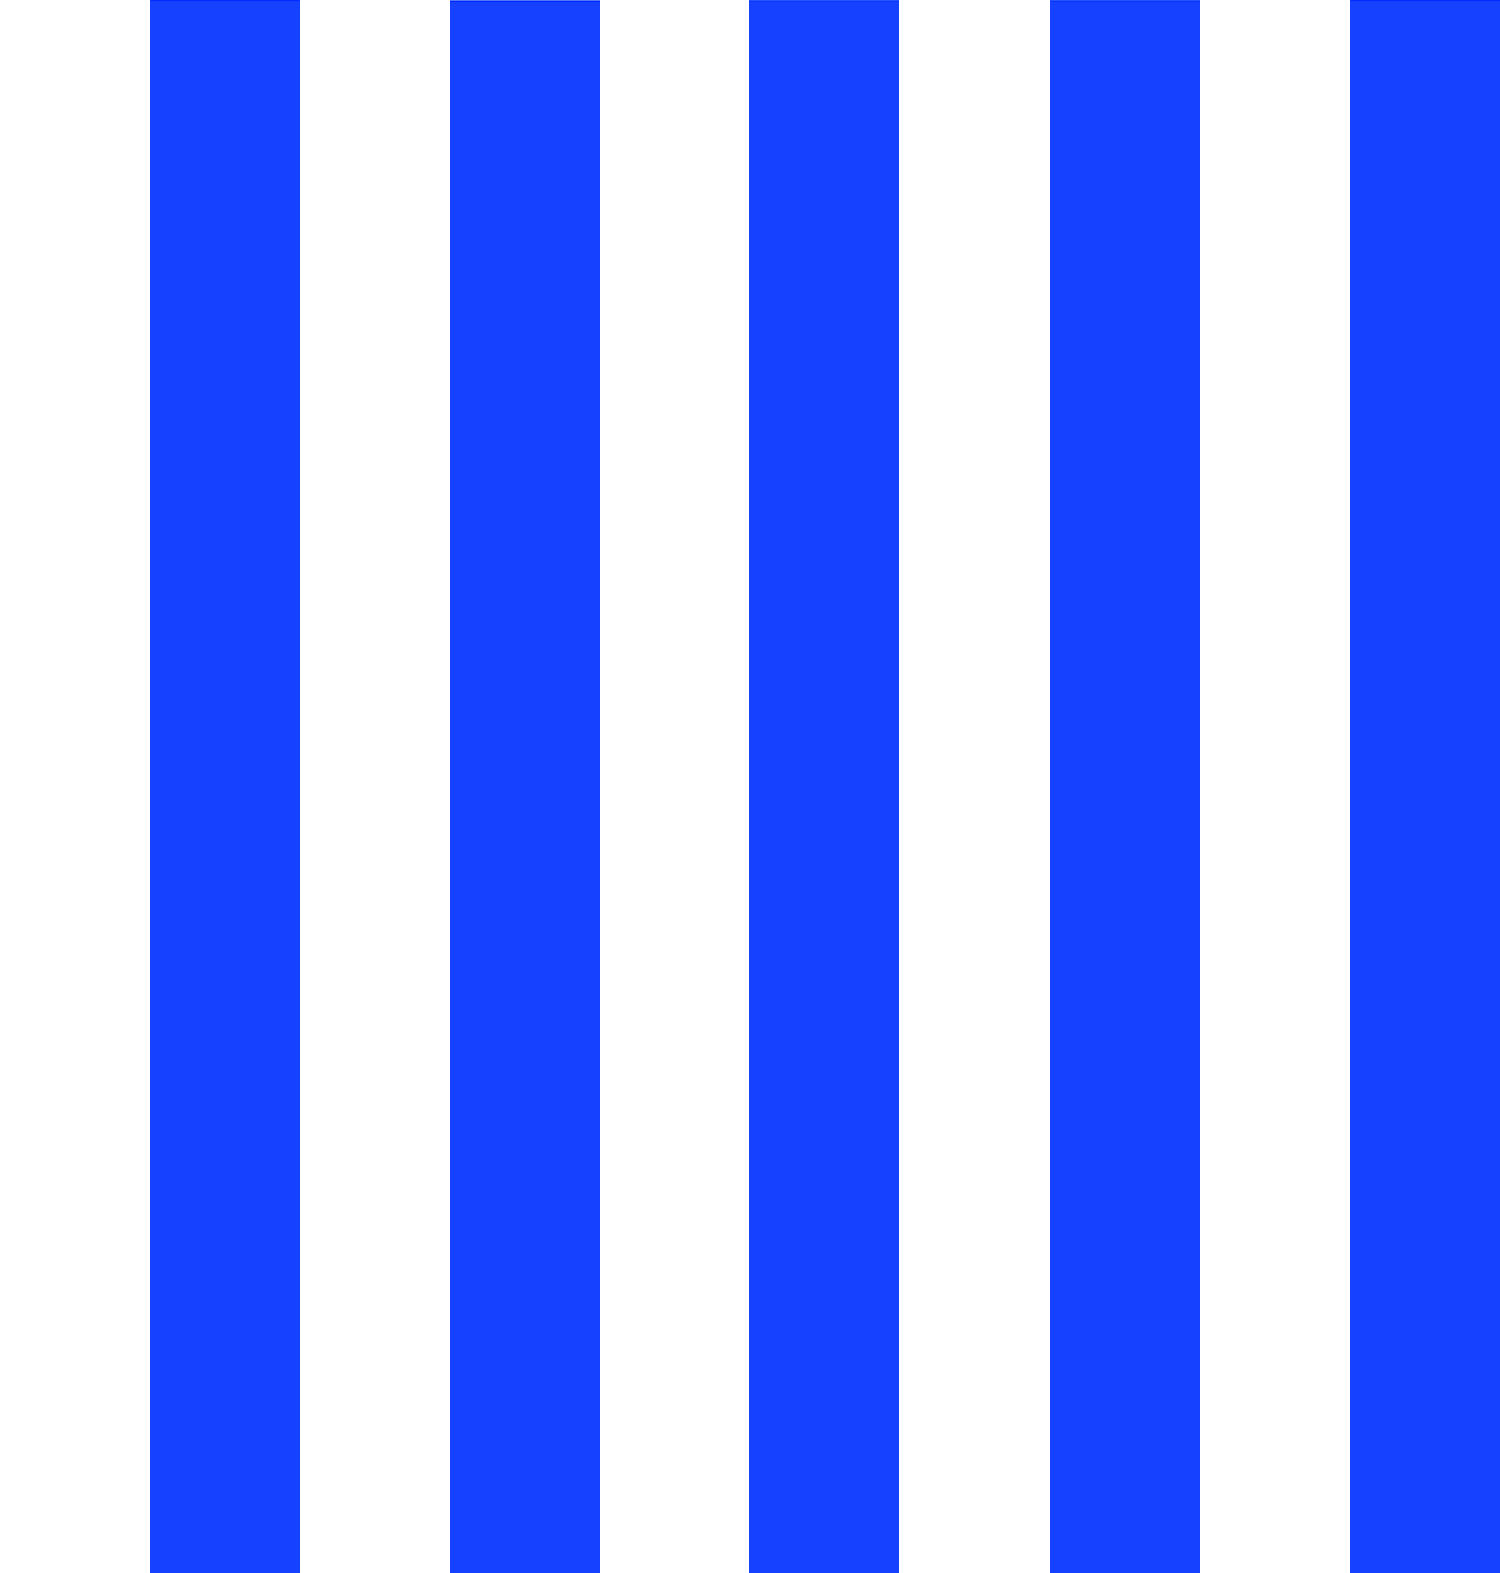
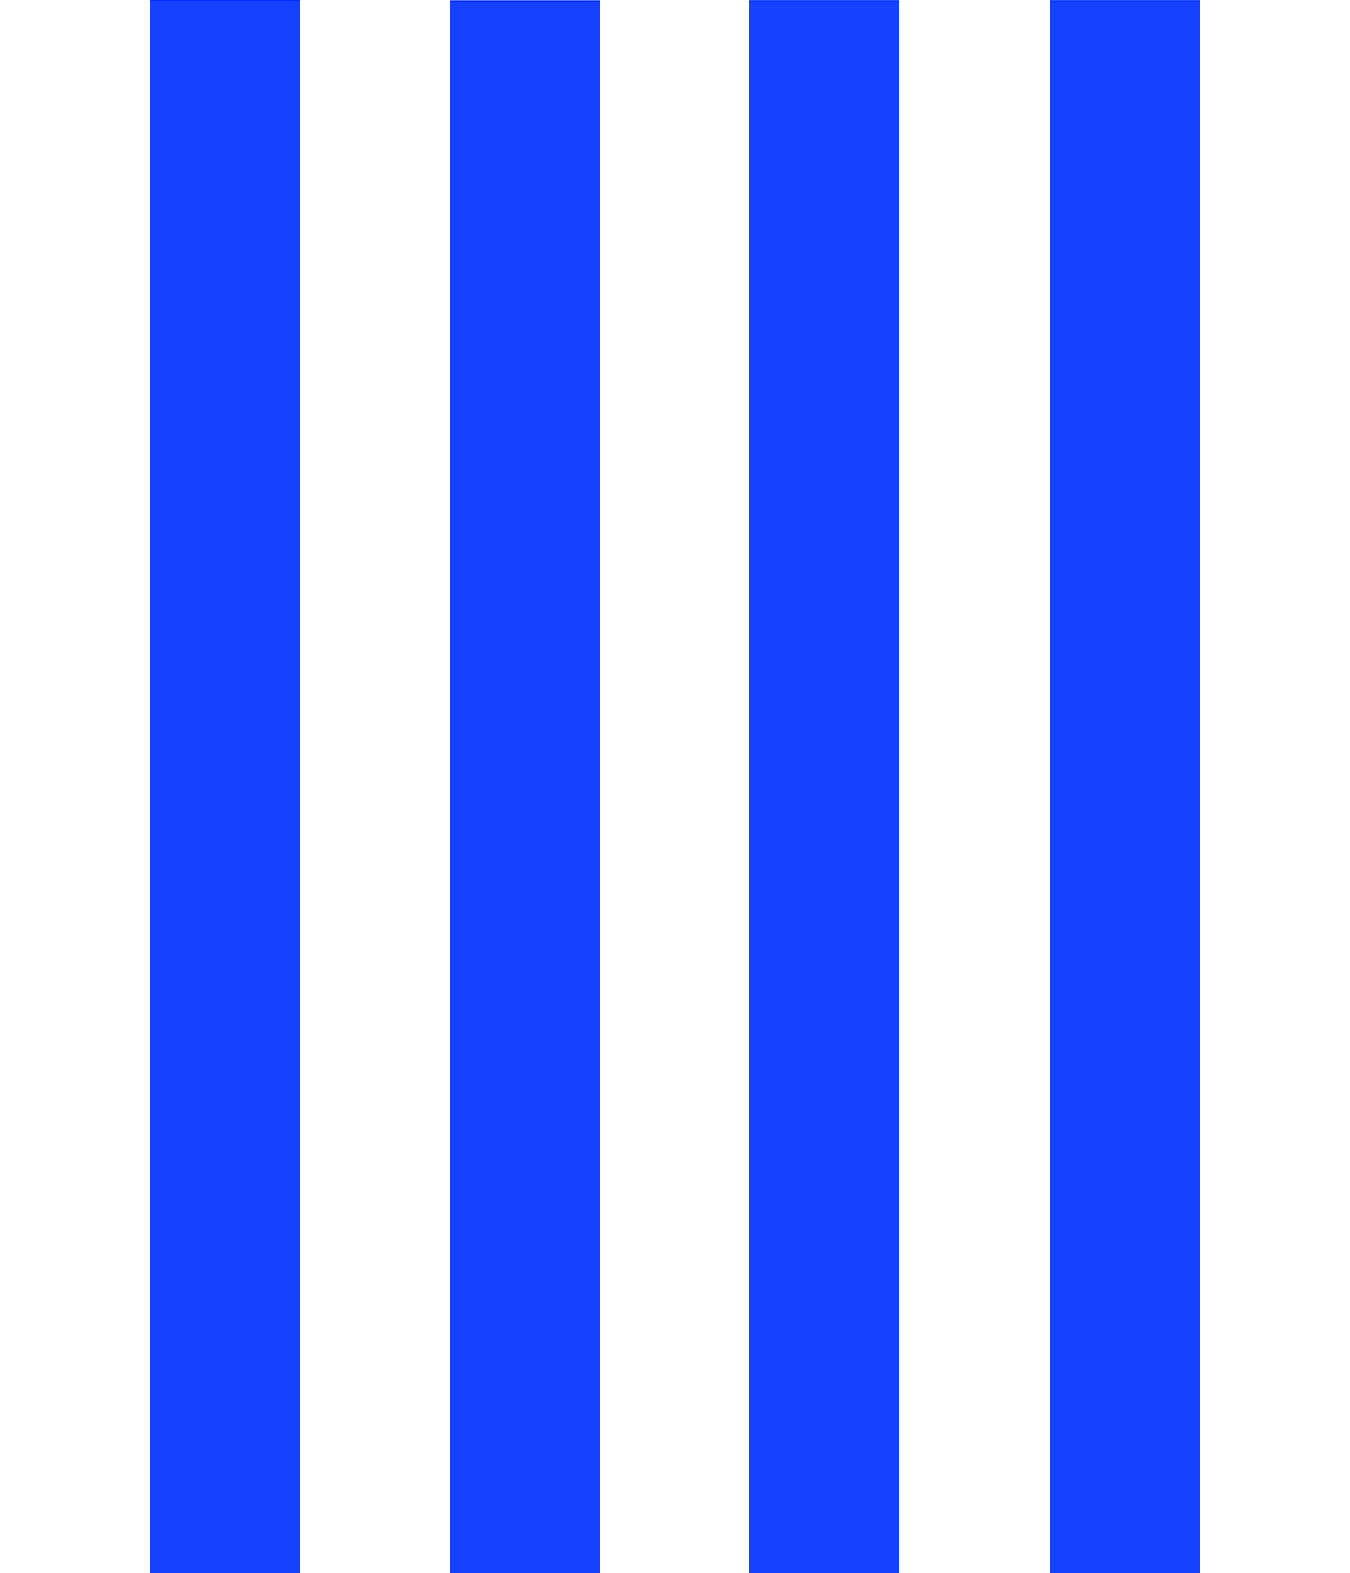
Sprintproject_VERSION4

diff --git a/mystory.css b/mystory.css
@@ -5,11 +5,14 @@
 @import url('https://fonts.googleapis.com/css2?family=Caveat:wght@400..700&family=Lora:ital,wght@0,400..700;1,400..700&family=Oswald:wght@200..700&family=Plus+Jakarta+Sans:ital,wght@0,200..800;1,200..800&family=Space+Grotesk:wght@300..700&display=swap');
 
 body {
-    background-image: url('png/background.png');
-    background-repeat: repeat;
+    background-image: url(png/background.png);
+    background-repeat: no-repeat;
+    background-size: cover;
+    background-position: center;
+    background-attachment: fixed;
     margin: 0;
+    min-height: 100vh;
 }
-
 :root {
     --bg-cream: #fdf8f2;
     --text-dark: #2b2b52;

diff --git a/header-footer.css b/header-footer.css
@@ -15,10 +15,13 @@
 
 body {
     background-image: url(png/background.png);
+    background-repeat: no-repeat;
+    background-size: cover;
+    background-position: center;
+    background-attachment: fixed;
     margin: 0;
-    /* Removes default browser margin */
+    min-height: 100vh;
 }
-
 /* ==========================================
    HEADER SECTION
    ========================================== */

diff --git a/index.html b/index.html
@@ -72,7 +72,7 @@
                 <div class="image-wrapper">
 
                     <!-- Main Product Image -->
-                    <img src="png/cinnamonbuns.jpg" alt="Fresh Argentine Croissants" class="hero-img">
+                    <img src="kroasant_files/LECROISSANT.jpg" alt="Fresh Argentine Croissants" class="hero-img">
                 </div>
             </div>
 

diff --git a/mystyle.css b/mystyle.css
@@ -16,8 +16,12 @@
 
 body {
     background-image: url(png/background.png);
+    background-repeat: no-repeat;
+    background-size: cover;
+    background-position: center;
+    background-attachment: fixed;
     margin: 0;
-
+    min-height: 100vh;
 }
 
 /* HEADER */
